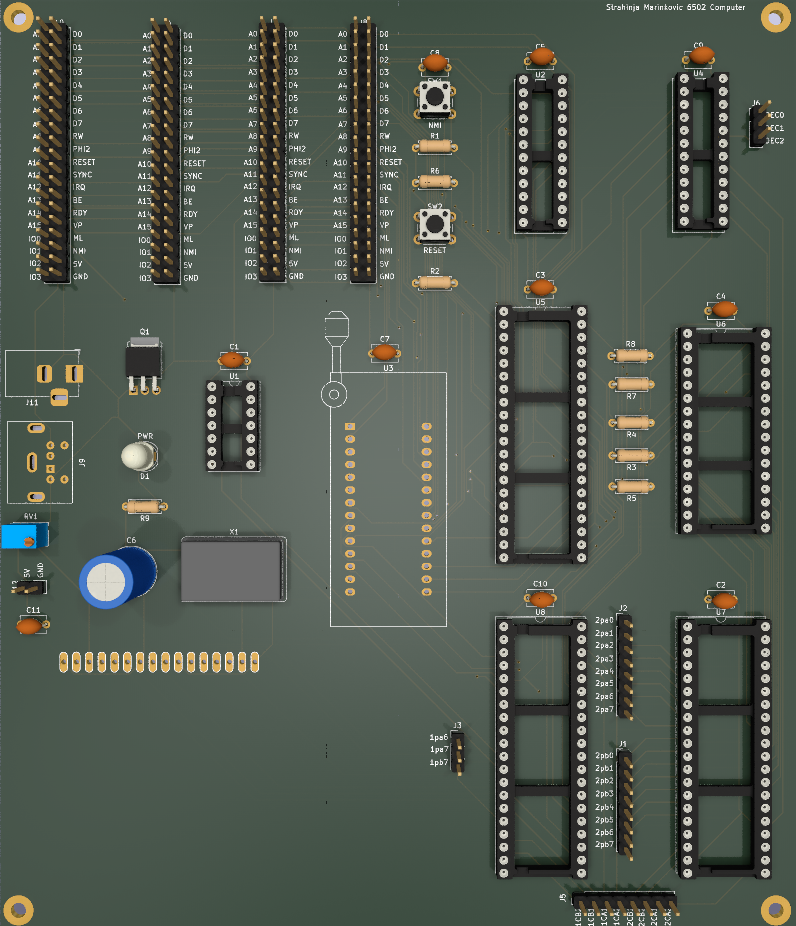
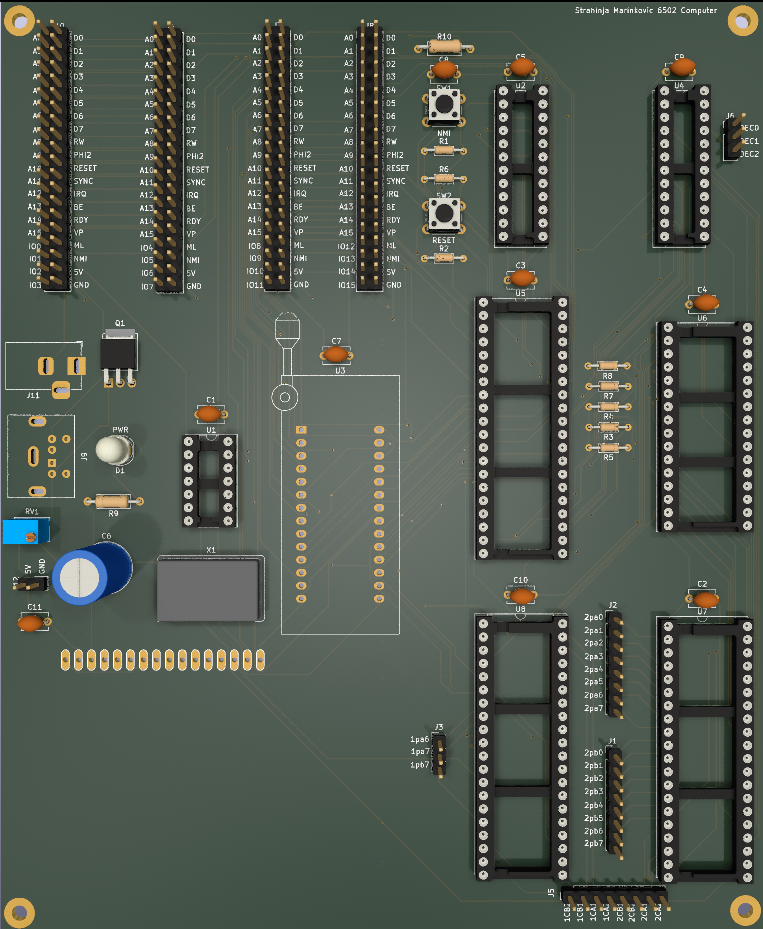
updated README

diff --git a/README.md b/README.md
@@ -5,9 +5,9 @@ This 6502 homebrew computer was created to learn about computer architecture, as
 | Address       | Devices |
 | ------------- | ------- | 
 | $0000 - $7EFF | RAM     | 
-| $7F00 - $7F01 | VIA 1   | 
-| $7F00 - $7F02 | VIA 2   | 
-| $7F03 - $7FFF | IO      | 
+| $7D00 - $7D0F | VIA 1   | 
+| $7E00 - $7E0F | VIA 2   | 
+| $7F00 - $7FFF | IO      | 
 | $8000 - $FFFF | ROM     | 
 
 # Build
@@ -27,6 +27,26 @@ a Mini Din-6 for a PS2 keyboard. However, if the correct assembly code is used, 
 # Notes
 - If the GAL chip is ever reprogrammed and the ROM, RAM, or VIA's ever get moved, the addresses in the assembly code will have to be edited for that code to work. 
 - The RAM is banked. This means that there are 16 possible memory blocks between $0000 and $7EFF. The banks are controlled by the first four bits in the first VIA on port A. If these do not get initialized, they will all be zero and the first bank will be enabled. This system gives nearly 512 KB of RAM.
+- <b/>The PCB Silkscreen that shows the labeling of the IO devices is incorrect. Here is a table of the translation: <b/>
+
+| Label IO       | Real IO |
+| -------------- | ------- | 
+|       IO0      |   IO12  | 
+|       IO1      |   IO13  | 
+|       IO2      |   IO14  | 
+|       IO3      |   IO15  | 
+|       IO4      |   IO0   | 
+|       IO5      |   IO1   | 
+|       IO6      |   IO2   | 
+|       IO7      |   IO3   | 
+|       IO8      |   IO4   | 
+|       IO9      |   IO5   | 
+|      IO10      |   IO6   | 
+|      IO11      |   IO7   | 
+|      IO12      |   IO8   | 
+|      IO13      |   IO9   | 
+|      IO14      |   IO10  | 
+|      IO15      |   IO11  |
 
 # Datasheets
 - <a href = "https://www.mouser.com/datasheet/2/436/w65c02s-2572.pdf"> W65C02 (MPU) </a>
